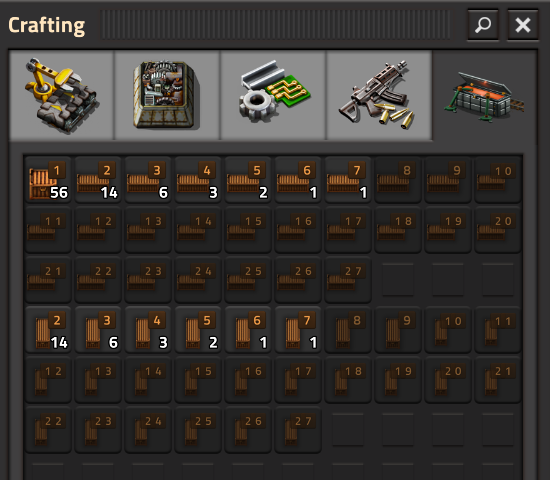
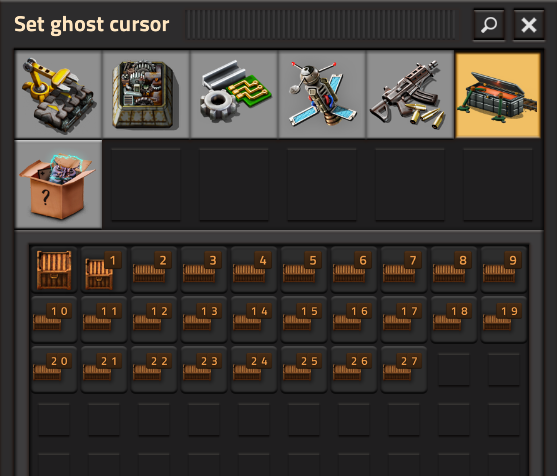
Update for Factorio 2.1: native rotation and reliable drag-to-build
- Adopt native direction_count rotation for all 27 sizes; drop the old
  rotate-key item-swap hack now that it's superseded.
- Snap drag areas outward to whole tiles and place immediately via
  build_from_cursor, fixing unreliable/undersized drag-to-size builds.
- A "tall" drag now resolves to the horizontal item rotated east instead
  of a separate vertical item; the legacy vertical items/entities remain
  fully functional for anything already placed, blueprinted, or
  copy-pasted, just no longer freshly granted.
- Clean up Factoriopedia: hide the now-redundant vertical/horizontal
  entity pages, fix the per-size recipe's ingredients to show the real
  cost, and merge duplicate rows.
- Rewrite the changelog and README for the 1.0.0 release, and refresh
  stale comments across control.lua/recipe.lua/technology.lua that no
  longer matched the current design.

diff --git a/README.md b/README.md
@@ -14,7 +14,7 @@ Stack size per slot scales with the silo's size - larger silos hold proportional
 
 ![Recipe tree](screenshots/3.png)
 
-The crafting chain leading up to the silo.
+The resarch chain leading up to the silo.
 
 ![Silo close-up with tooltip](screenshots/4.png)
 
@@ -24,15 +24,22 @@ A 1x1, 1x2, and 4x1 silo up close. Ten slots, each holding several stacks worth.
 
 Vanilla has no path to a bigger chest at all - steel-chest is the ceiling. A few great community mods fill that gap by merging chests into a wider one, but the ones I looked at give a bigger chest more slots as it grows, and slot count is what actually costs UPS to simulate - so the wide chest itself becomes the new bottleneck at scale.
 
-This mod takes a different route: a fixed, small slot count (10) with the *stack size per slot* multiplied instead, using Factorio 2.0's `inventory_type = "with_custom_stack_size"`. A 20-tile-wide silo has the same 10 slots as a 2-tile one - it just holds proportionally more per slot. A single circuit wire on the entity reads the whole contents efficiently.
+This mod takes a different route: a fixed, small slot count (10) with the *stack
+size per slot* multiplied instead. A 20-tile-wide silo has the same 10 slots as
+a 2-tile one - it just holds proportionally more per slot. A single circuit wire
+on the entity reads the whole contents efficiently.
 
 Further, the mod provides reliable blueprinting, something the otherwise mighty bulk rail loaders seem to struggle with. I would have happily kept using them and skipped writing my own - but blueprint/copy-paste stamping their stations was (systematically?) unreliable. Sometimes a paste would place cleanly, sometimes it wouldn't. A theory is contention/races around the hidden inserters/loaders they build alongside the visible entities, but that's speculation. Either way, this mod places single physical entities with nothing hidden to construct alongside it - blueprinting is just normal entity placement and should be very robust.
 
 ## How it's built
 
-Despite 27 sizes in 2 orientations, there's only one craftable item: a generic silo you drag across the map to the size/shape you want (1 tile tall for horizontal, 1 tile wide for vertical, 1x1 for the smallest). The specific sized silo is resolved right there at build time, not picked ahead of time at the crafting menu.
+Despite 27 sizes, there's only one craftable item: a generic silo you drag across the map to the size/shape you want (1 tile tall for horizontal, 1 tile wide for vertical, 1x1 for the smallest). The specific sized silo is resolved right there at build time, not picked ahead of time at the crafting menu.
 
-That means nothing needs to stock 54 dedicated items to keep a base running. A requester chest, a bot's own cargo, or your own inventory only ever needs the one generic item - in whatever quantity matches the mix of sizes being built (N generics per N-tile silo). Deconstructing, canceling a placement, or pipetting an existing silo all hand generics back the same way, so there's nothing to sort or clean up afterward either.
+That means nothing needs to stock 27 dedicated items to keep a base running. A requester chest, a bot's own cargo, or your own inventory only ever needs the one generic item - in whatever quantity matches the mix of sizes being built (N generics per N-tile silo). Deconstructing, canceling a placement, or pipetting an existing silo all hand generics back the same way, so there's nothing to sort or clean up afterward either.
+
+## Compatibility
+
+Requires Factorio 2.1+. Upgrading an existing save is safe - already-placed silos and research progress are unaffected.
 
 ## Credits
 
@@ -40,4 +47,8 @@ That means nothing needs to stock 54 dedicated items to keep a base running. A r
 
 ## Known limitations
 
-Containers can't rotate their collision box in Factorio's engine, so horizontal and vertical are separate items/entities rather than one item you rotate - there's a single generic item you carry and drag to the size/orientation you want, and pressing rotate swaps whatever's in your cursor (a real item or a ghost-aim) for its same-size opposite-orientation counterpart. That swap only applies to the cursor though. Two consequences follow from the underlying constraint: 1) a blueprint containing this chest can only be rotated 180 deg or mirrored (both come out correct) - a genuine 90/270 deg rotation doesn't work, since that would require the entity itself to swap from wide to tall, which Factorio's engine won't do automatically, and our rotate-key handling doesn't touch blueprint contents at all. 2) The 53 real per-size/orientation items are meant to exist only momentarily, in the cursor, mid-placement - a stray one can still end up resting somewhere else (a chest, a vehicle trunk, another player's inventory, a bot's cargo) if it's moved there without ever passing through your own main inventory, where it would otherwise be silently converted back into the generic item.
+The 27 real per-size items are meant to exist only momentarily, in the cursor,
+mid-placement - a stray one can still end up resting somewhere else (a chest, a
+vehicle trunk, another player's inventory, a bot's cargo) if it's moved there
+without ever passing through your own main inventory, where it would otherwise
+be silently converted back into the generic item.
